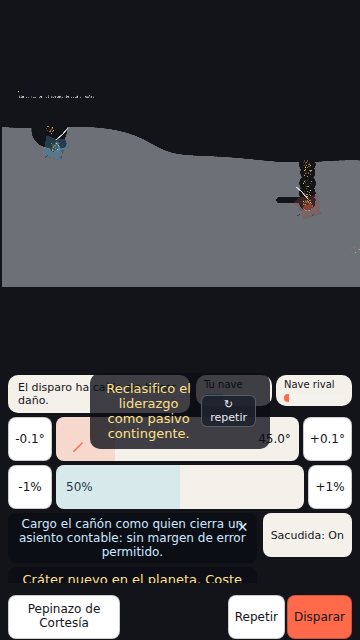
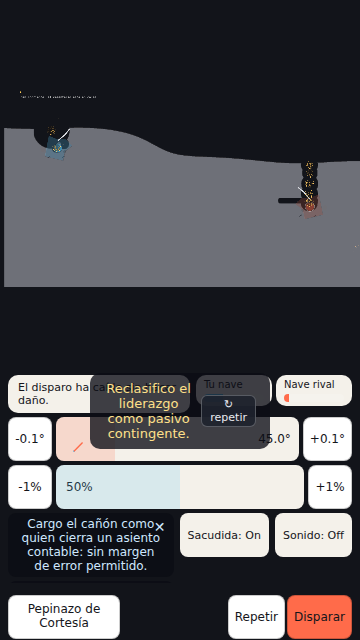
fix(realce-impacto): captura honesta de rlc-2 separando roce e impacto
El e2e encadenaba roce -> impacto en el mismo test, pero panel-roce no se
autooculta (con-3 lo exige así) y solo se limpia al inicio de
dispararEntrada -- el camino de un turno real. dispararEventoImpactoReal es
un atajo de depuración que llama directo a manejarEventosVisuales sin pasar
por dispararEntrada, así que el panel de roce anterior seguía visible en la
captura del impacto: las dos capturas de evidencia mostraban el mismo texto
de roce, sin forma de juzgar que impacto y roce se distinguen a la vista.

No es un fallo del juego real (cualquier turno de verdad limpia el roce
viejo antes de resolver el siguiente), así que la corrección va en el test:
rlc-2a y rlc-2b, cada uno con su propia sesión fresca, para que la captura
del impacto muestre solo el destello de núcleo y la explosión reales, sin
arrastrar el panel de un roce anterior.

diff --git a/tests/e2e/realce-impacto.e2e.ts b/tests/e2e/realce-impacto.e2e.ts
@@ -64,7 +64,18 @@ test("rlc-1: la sacudida de cámara es acotada y nunca deja la ráfaga de turnos
 // efecto (el chispazo + panel-roce de contacto-honesto), distinto y más
 // débil. Se usan los mismos atajos de depuración que con-2/con-3 porque
 // aterrizar un roce real a mano no es reproducible de forma determinista.
-test("rlc-2: el roce nunca dispara sacudida ni destello de daño, solo el impacto real", async ({ page }) => {
+//
+// Las dos mitades viven en tests INDEPENDIENTES, cada una con su propia
+// entrarAPartida, en vez de encadenar roce -> impacto en el mismo test como
+// antes: panel-roce no se autooculta por temporizador (con-3 lo exige así,
+// ver RoceHUD.tsx) y solo se limpia al inicio de dispararEntrada -- el
+// camino real de un turno -- pero dispararEventoImpactoReal es un atajo de
+// depuración que llama directo a manejarEventosVisuales sin pasar por
+// dispararEntrada. Encadenados, el panel de roce quedaba visible todavía en
+// la captura del impacto (no es un fallo del juego real: cualquier turno de
+// verdad limpia el roce viejo antes de resolver el nuevo), y esa captura no
+// servía para juzgar que impacto y roce se distinguen a la vista.
+test("rlc-2a: el roce nunca dispara sacudida ni destello de daño", async ({ page }) => {
   await entrarAPartida(page);
 
   await page.evaluate(() => window.__debug.dispararEventoRoce!(1, 200, 300));
@@ -74,6 +85,10 @@ test("rlc-2: el roce nunca dispara sacudida ni destello de daño, solo el impact
   expect(await page.evaluate(() => window.__debug.ultimoRealceImpacto ?? null)).toBeNull();
 
   await page.screenshot({ path: "capturas/realce-impacto-2-roce-sin-sacudida.png" });
+});
+
+test("rlc-2b: el impacto real dispara sacudida y destello de daño, distinto del roce", async ({ page }) => {
+  await entrarAPartida(page);
 
   await page.evaluate(() => window.__debug.dispararEventoImpactoReal!(1, 200, 300, 30));
   await expect
@@ -84,6 +99,9 @@ test("rlc-2: el roce nunca dispara sacudida ni destello de daño, solo el impact
     .toBe(true);
   const realce = await page.evaluate(() => window.__debug.ultimoRealceImpacto);
   expect(realce).toEqual({ danio: 30, amplitud: expect.any(Number) });
+  // Sesión fresca: no hay ningún roce previo que pueda dejar panel-roce
+  // visible en esta captura, así que lo que se vea es solo el realce real.
+  await expect(page.getByTestId("panel-roce")).toHaveCount(0);
 
   await page.screenshot({ path: "capturas/realce-impacto-3-impacto-con-sacudida.png" });
 });
